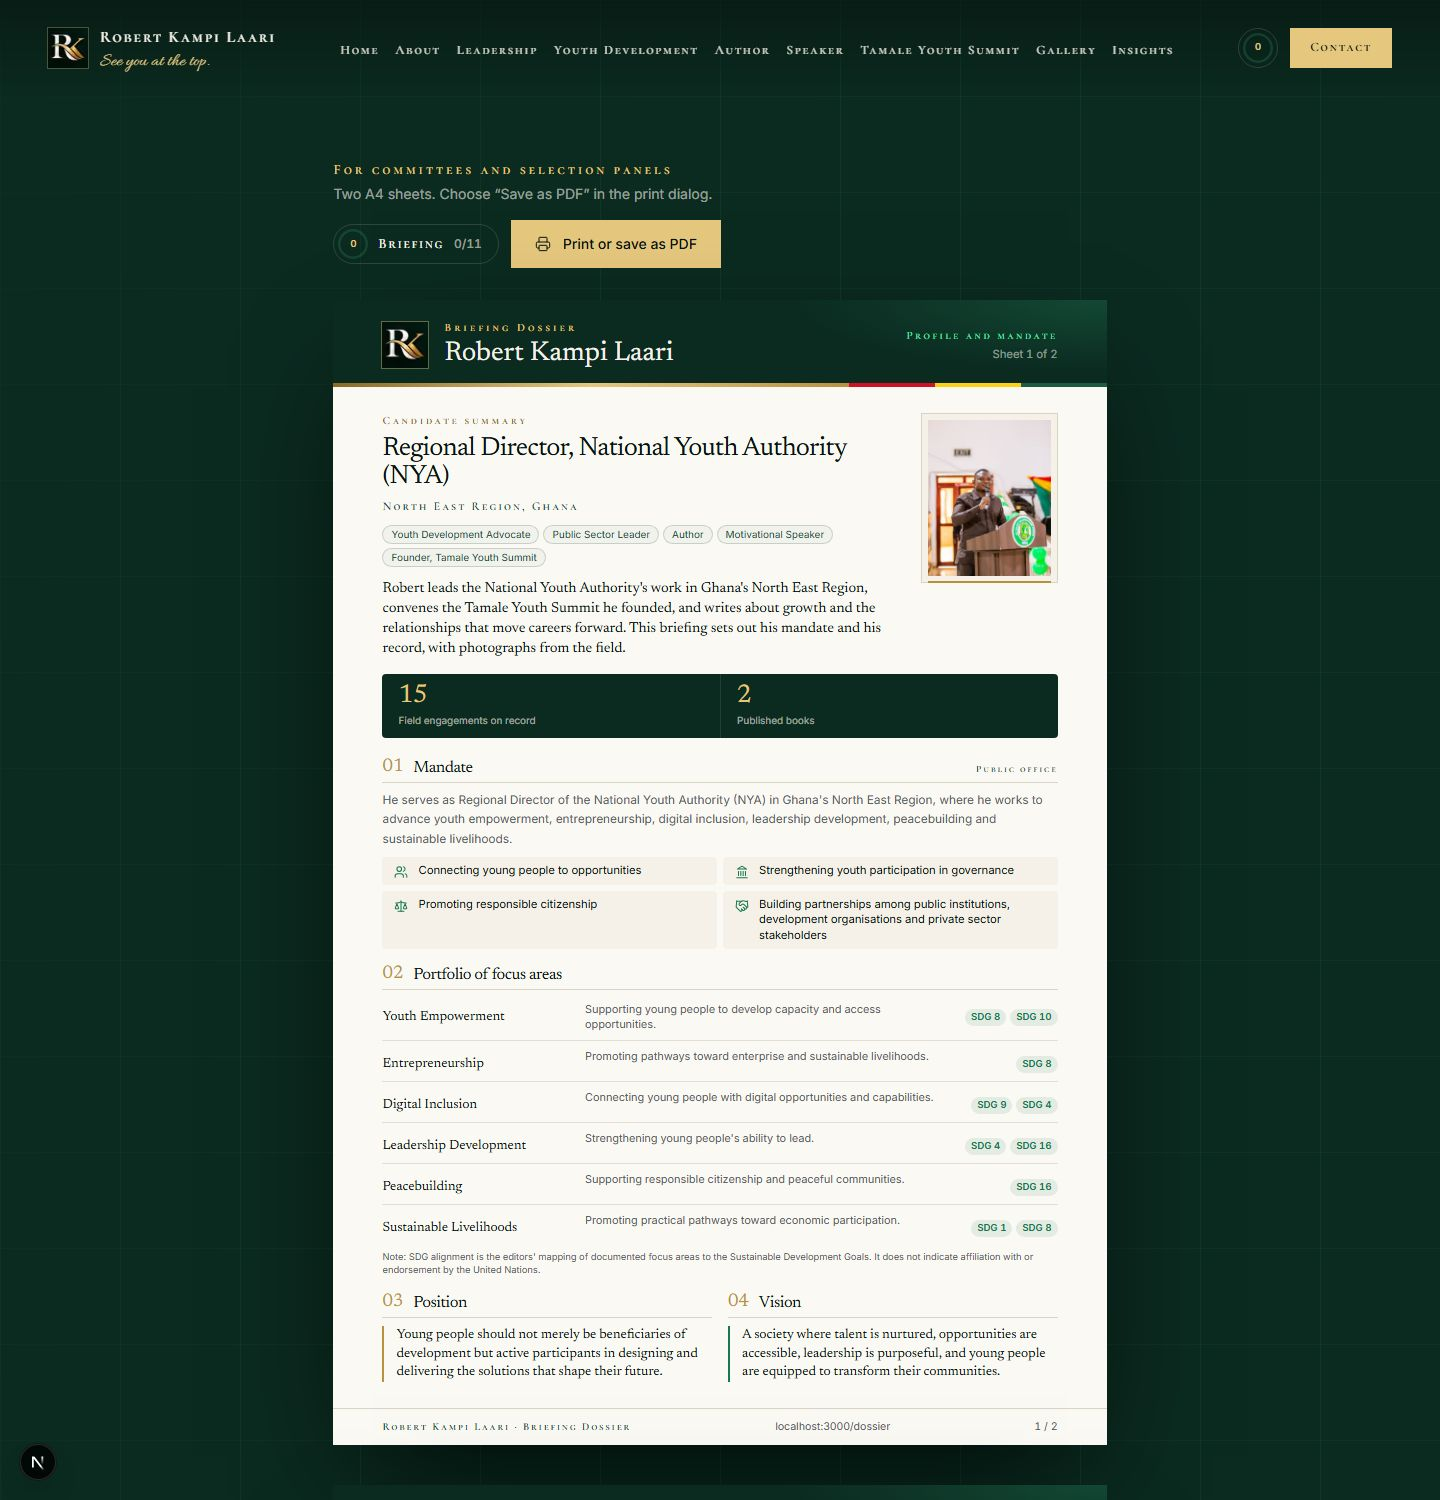
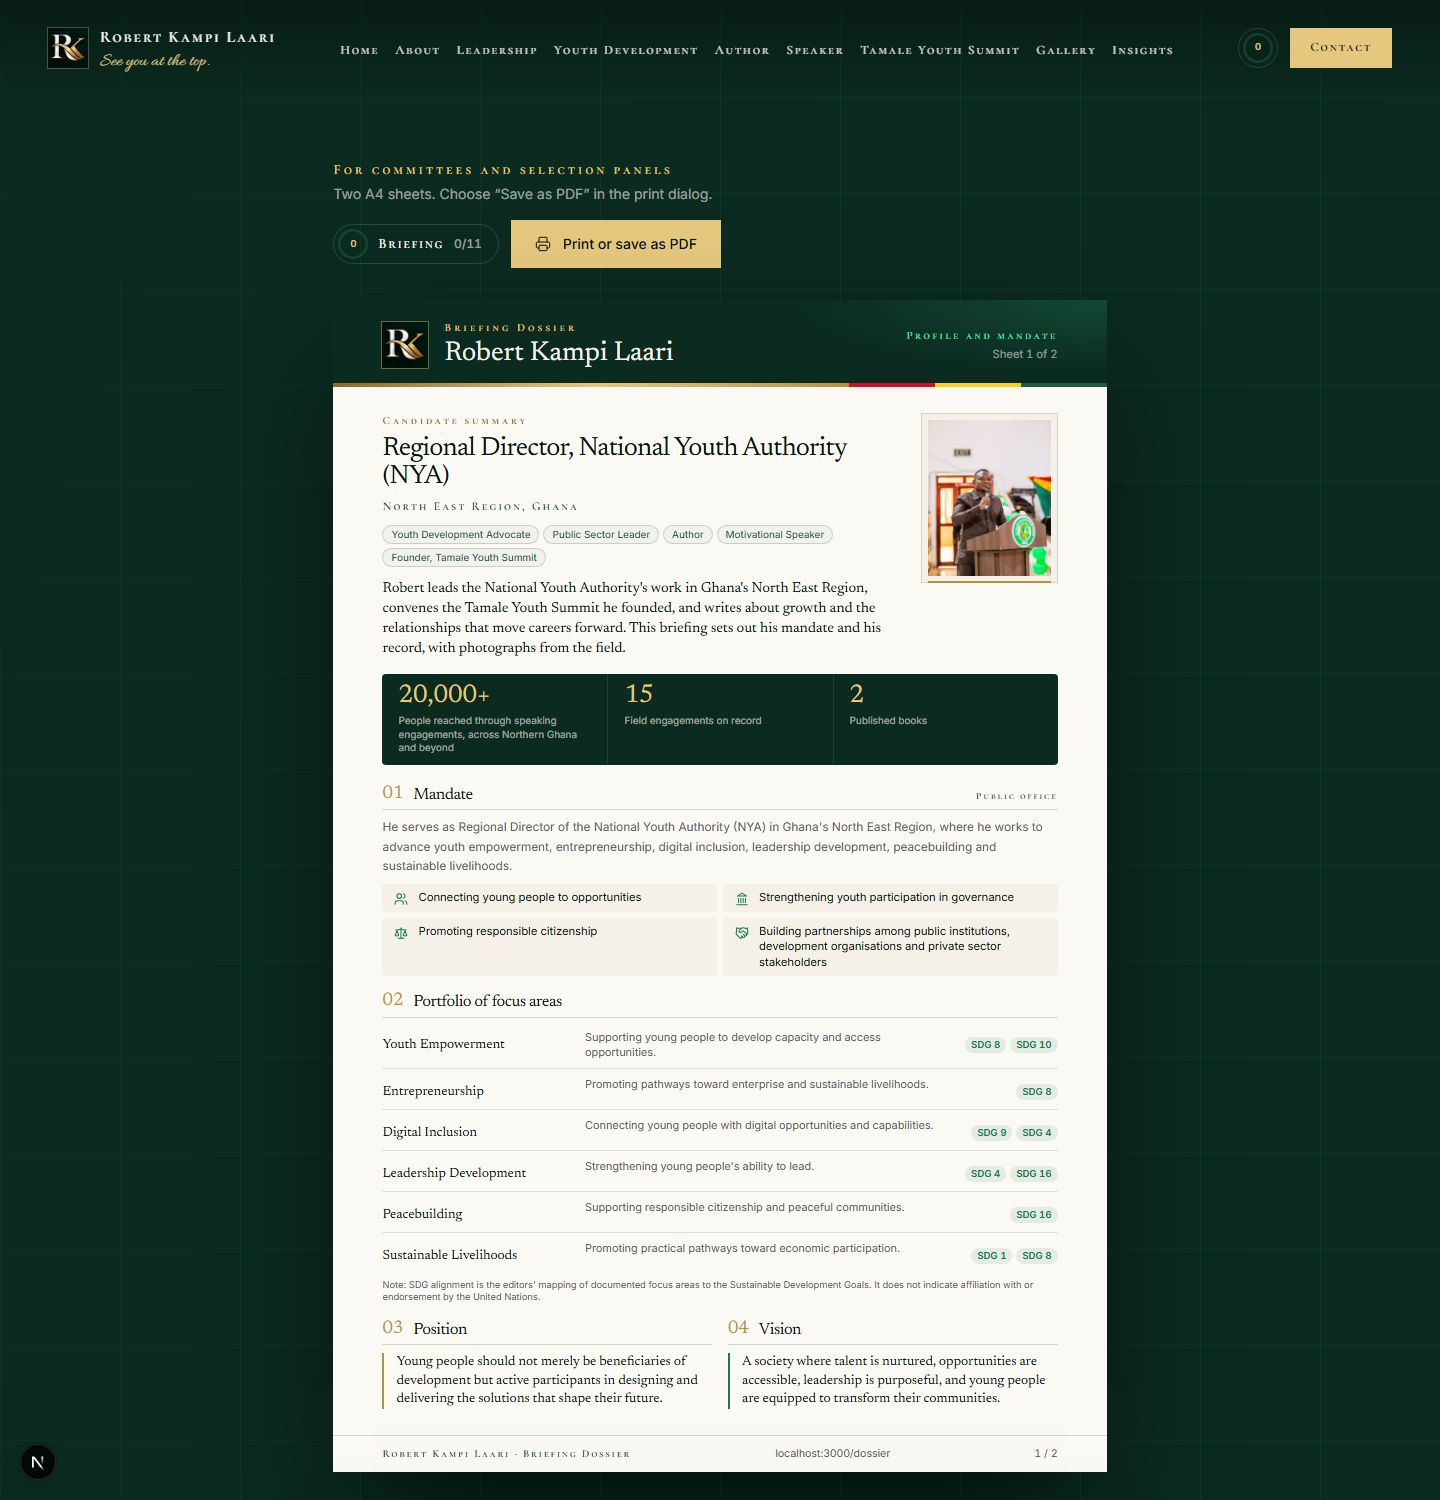
Add speaking reach data and refresh README screenshots
data/impact.ts holds the 20,000+ figure the homepage and dossier now import;
it was left out of the previous commit.

Changed region(s): [[0.2188, 0.46, 0.7812, 1.0]]

diff --git a/data/impact.ts b/data/impact.ts
@@ -1,9 +1,20 @@
 /**
- * Verified impact figures. Leave a value null until someone can point to its source
- * (an NYA report, a Summit registration count). Components hide any figure that is null,
- * so nothing unverified is ever shown.
+ * Impact figures shown on the homepage and in the dossier. Each one records where it came from.
+ * Set a figure to null to hide it everywhere; never add one without a source.
  */
-export const VERIFIED_IMPACT: { youthReached: number | null; source: string | null } = {
-  youthReached: null,
-  source: null,
+export type ImpactFigure = {
+  value: number
+  /** Shown after the number, e.g. "+" for "20,000+". */
+  suffix: string
+  label: string
+  scope: string
+  source: string
+}
+
+export const SPEAKING_REACH: ImpactFigure | null = {
+  value: 20000,
+  suffix: "+",
+  label: "People reached through speaking engagements",
+  scope: "Across Northern Ghana and beyond",
+  source: "Supplied by Robert Kampi Laari, October 2026",
 }
